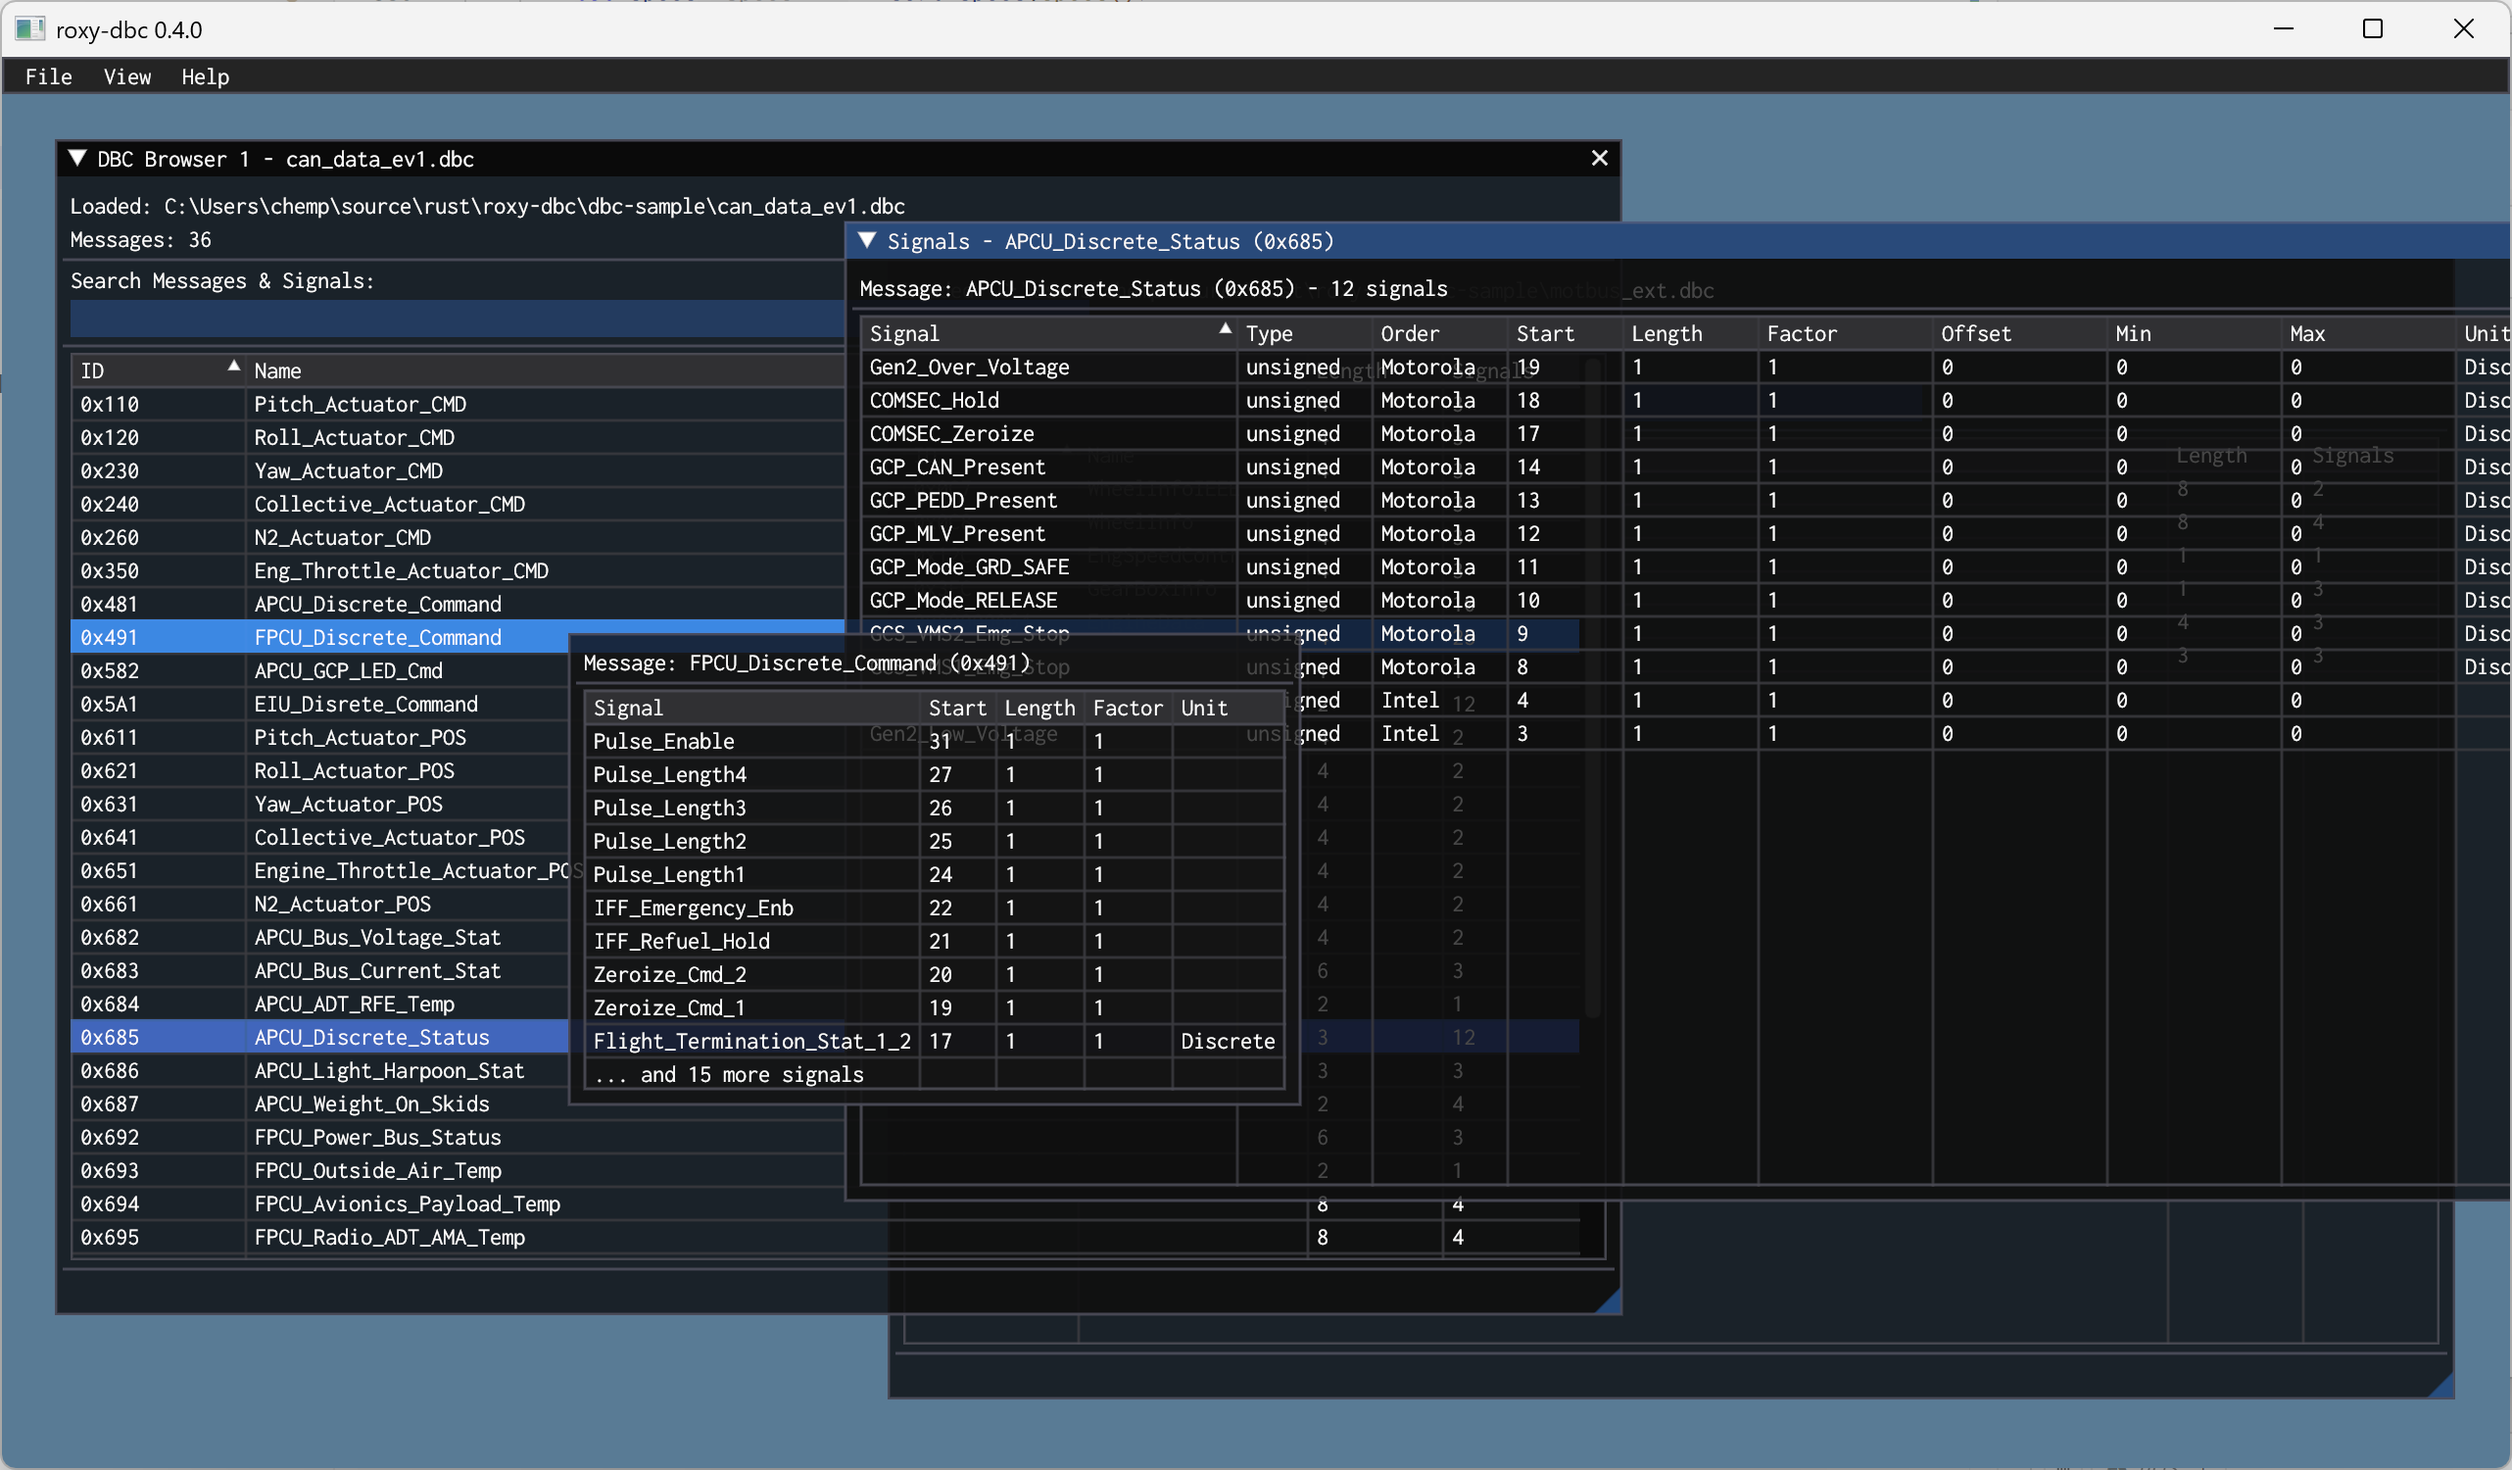
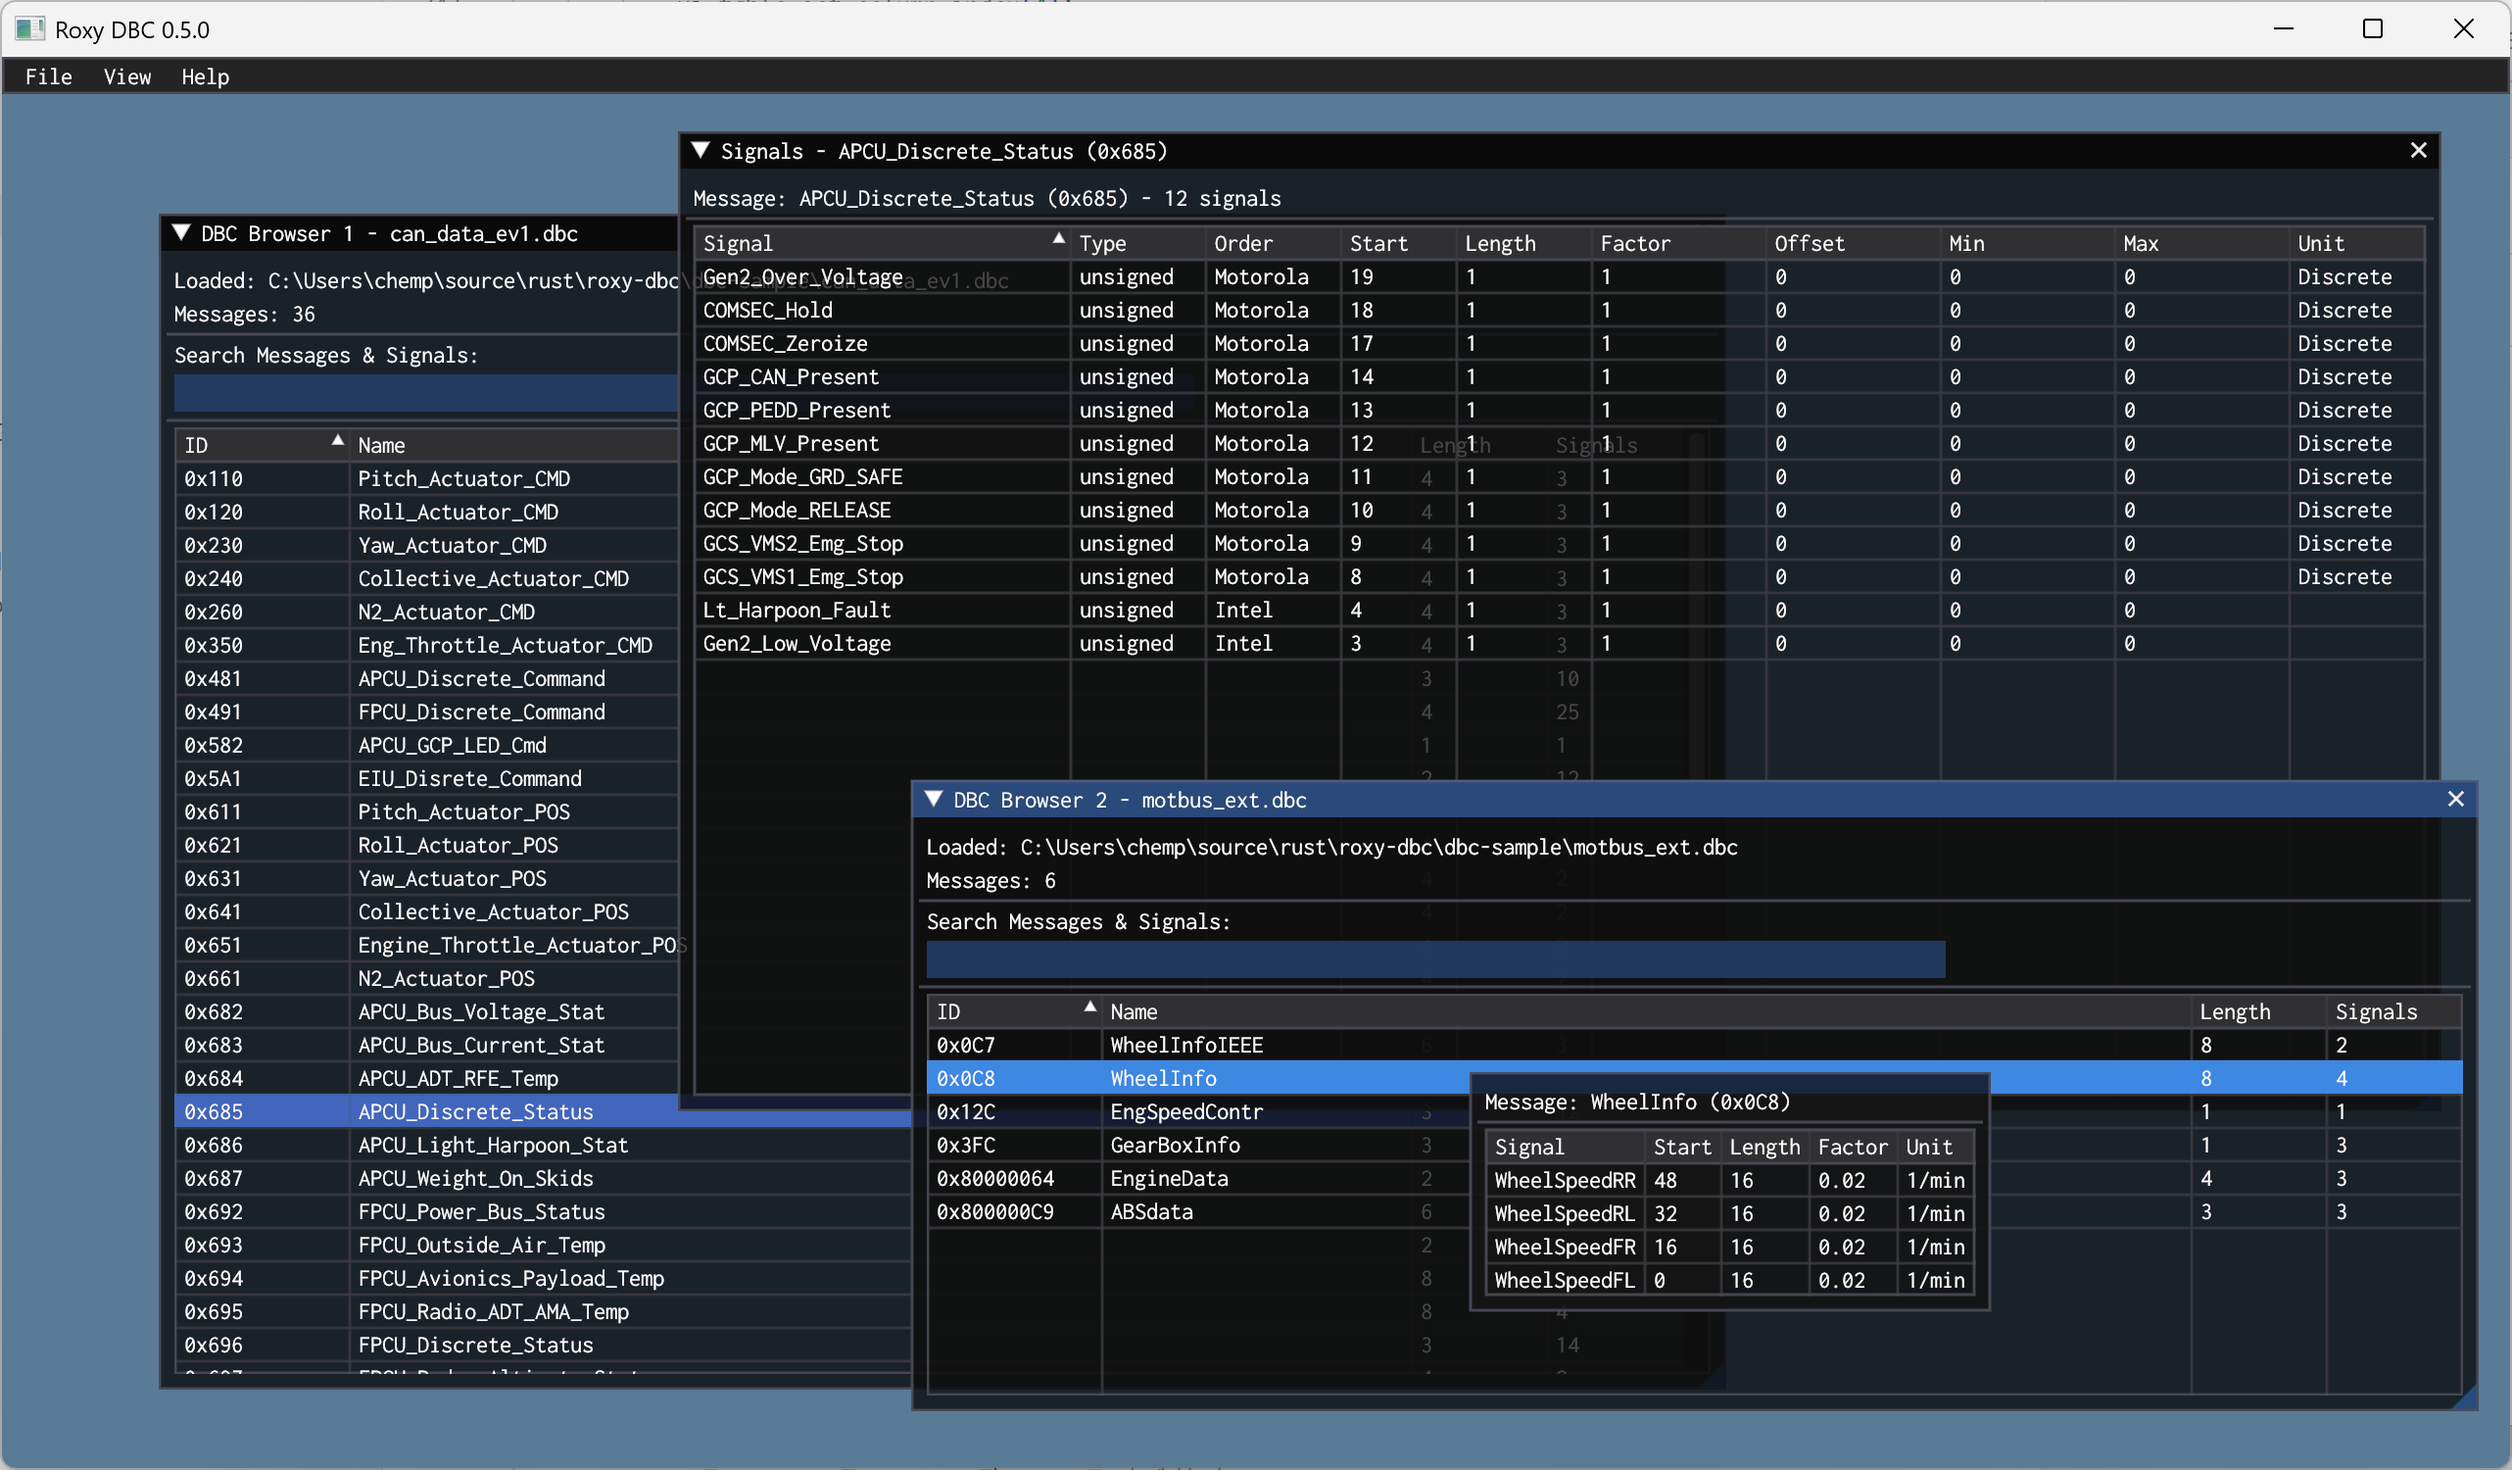
文档小改

diff --git a/src/app.rs b/src/app.rs
@@ -43,7 +43,7 @@ impl AppWindow {
 
             let attributes = Window::default_attributes()
                 .with_inner_size(size)
-                .with_title(format!("roxy-dbc {version}"));
+                .with_title(format!("Roxy DBC {version}"));
             Arc::new(event_loop.create_window(attributes).unwrap())
         };
 

diff --git a/README.md b/README.md
@@ -87,7 +87,15 @@ src/
 └── dbc.rs           # DBC文件解析和数据结构
 ```
 
-## 📄 许可证
+## � 未来计划
+
+### 编辑功能
+- **信号编辑** - 双击信号打开编辑界面，支持修改信号属性
+- **右键菜单** - 为消息和信号添加复制、剪切、粘贴功能
+- **拖拽操作** - 支持拖动信号到不同的消息中，甚至可以跨DBC文件拖拽
+- **撤销/重做** - 实现编辑操作的撤回功能
+
+## �📄 许可证
 
 这个项目基于 GPLv3 许可证开源 - 查看 [LICENSE](LICENSE) 文件了解详情。
 
